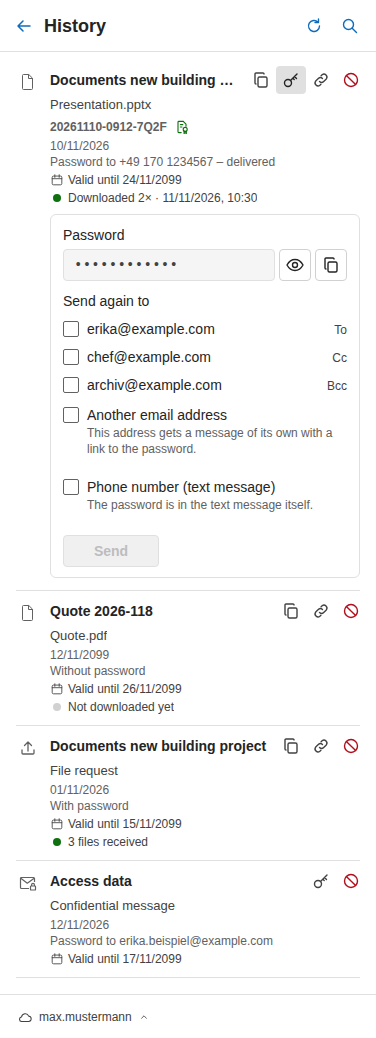
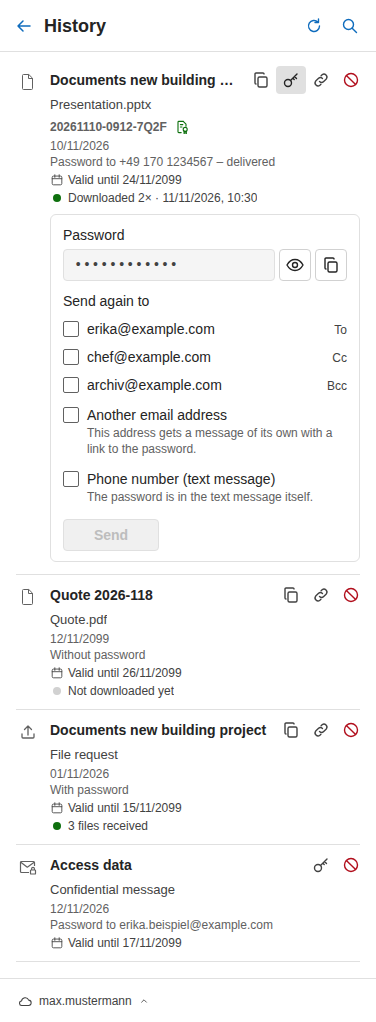
Erneut senden an: even spacing under the hint of a box (#131)
* Erneut senden an: no extra space under the hint of a box

* README picture History from CI (even spacing in Send again to)

---------

diff --git a/addin/src/taskpane/taskpane.css b/addin/src/taskpane/taskpane.css
@@ -615,6 +615,9 @@ button.share-title:focus-visible { outline: 2px solid var(--focus); outline-offs
 /* "Erneut senden an": the address or number field indented under its ticked box, like the field under the chosen
    way of "Kennwort an". */
 .password-panel .resend-picks .channel-group { margin: 2px 0 4px 24px; }
+/* The hint under a box ("Diese Adresse erhält …") ends with its row – no extra space below, so every box of
+   "Erneut senden an" is as far from the next one (the 8px under .hint is for the sentence under the heading). */
+.password-panel .checkbox-hint { margin-bottom: 0; }
 /* The recipients one line each: the address, "An"/"Cc"/"Bcc" small and grey on the right (recipientPicks). */
 .recipient-row { padding: 4px 0; }
 .recipient-row .checkbox-text { display: flex; align-items: baseline; gap: 8px; overflow-wrap: anywhere; }

diff --git a/CLAUDE.md b/CLAUDE.md
@@ -22,7 +22,7 @@ One container serves everything behind Caddy:
 - `server/` – Fastify backend (ESM, TypeScript). Validates the Office SSO token (`auth.ts`, audience `api://<host>/<client-id>`, scope `access_as_user`) and uses MSAL On-Behalf-Of only for Graph (`Mail.Send`).
 - Nextcloud does not accept Entra tokens (typically it logs in via another IdP, e.g. Keycloak through `user_oidc`). Instead each user connects once via Nextcloud Login Flow v2; the resulting app password is stored encrypted per Entra `oid` in the database (`credentials.ts`, store `credentials`, key `CREDENTIAL_KEY`) and used as Basic auth. A 401 from Nextcloud deletes the stored credential and returns error code `NEXTCLOUD_NOT_CONNECTED`, which makes the taskpane show the connect view.
 - Nextcloud access is server-to-server (no CORS on Nextcloud): WebDAV chunked upload v2 + OCS share API (`nextcloud.ts`). Nextcloud-reported URLs are rewritten onto `NEXTCLOUD_URL`. Vaultwarden Sends are created through `bw serve` running in the same container on 127.0.0.1:8087 with a service account (`vaultwarden.ts`). Upload/job/pending-login state is in-memory (`store.ts`) → single instance only.
-- `addin/` – XML manifest + taskpane (Nextcloud connect/disconnect, converts existing attachments via `getAttachmentContentAsync` → upload → `removeAttachmentAsync`, plus file picker (`window.showOpenFilePicker` first, hidden `<input type="file">` as fallback – classic Outlook's WebView did not reliably open the dialog for a file input; steps are traced with `CLIENT_TRACE`) and drag & drop onto the "Senden" tab for files beyond Outlook's limit – in classic Outlook the WebView2 file dialog sometimes opens behind the Outlook window; inserts links) + event handlers in `commands.ts`: `OnMessageAttachmentsChanged` shows an InsightMessage with a "open taskpane" action (add-ins cannot open the taskpane themselves), `OnMessageRecipientsChanged` runs the same check (the size is the total of all attachments of the mail, and it depends on the recipients: `ATTACHMENT_THRESHOLD_MB` as soon as one is outside `INTERNAL_DOMAINS` – default the user's own domain –, else `ATTACHMENT_THRESHOLD_INTERNAL_MB` and `ATTACHMENT_POLICY_INTERNAL`, also without recipients; `attachmentRule` in `shared/office.ts`, 0 = every attachment, texts without a size; in the pane every attachment is ticked whatever its size, an unticked one stays unticked on redraw; every file row has an "×" that removes the file – no "Groß" mark), `OnMessageSend` runs with manifest `SendMode="SoftBlock"`; env `ATTACHMENT_POLICY` (served via `/api/config`, cached in `roamingSettings`) decides: `enforce` blocks large attachments before arming the password mail (no "Send anyway"), `suggest` arms the password mail first and relaxes to PromptUser via `sendModeOverride` (Mailbox 1.14). The taskpane mimics Outlook (Fluent 2 tokens, Office theme, Outlook wording "Nachricht"/"Kennwort") – keep new UI consistent with that. A description (`.hint`) under an item – option, switch, field, select – sits as close as the line under "Gültigkeit" everywhere (5–6px in the rendered pane from the item's bottom – letters or edge – to the top of the description's letters), and so does the text right under a section heading ("Anhänge", "Vertrauliche Nachricht", "Dateien von Empfängern erhalten"; `.section-text`, `#no-attachments`; settings headings: `legend + .settings-text`) and the description under a checkbox (`.checkbox-hint`, settings); the margins differ by item (comment in `taskpane.css`) – check new hints against it, and remember that a hidden element is still a CSS neighbour (use `:not([hidden])`). While something loads – the start of the pane (`#start-view` in `taskpane.html`), "Verlauf", "Zustellnachweise", the links of a mail being read, settings not loaded yet – grey shimmering placeholders in the shape of the content show (`skeleton.ts`: `skeletonRows`, `skeletonForm`; role status, "Wird geladen …" for screen readers, no shimmer with reduced motion); a reload keeps the list in sight, a failure removes them. The message bar stays in sight at the top while the pane scrolls (`position: sticky`). Messages run down (`SUCCESS_MESSAGE_SECONDS`, default 5: a ring around the tick, "!" or "i" empties clockwise, paused on hover/focus, `setStatus`); progress (kind `progress`) and messages with "Erneut versuchen" stay. Bundled as IIFE because classic Outlook runs the handlers in a JavaScript-only runtime (no DOM, no ES modules); `commands.js` is built with target `es2016` and without `Headers`/`Promise.finally` (guarded by `addin/test/bundle.test.ts`); it registers its handlers immediately (classic) and again in `Office.onReady` (browser runtime: office.js loads `Office.actions` only after the script ran – `commands-load.test.ts`), and that runtime only allows SSO and fetch because the server serves `/.well-known/microsoft-officeaddins-allowed.json` listing `commands.js`.
+- `addin/` – XML manifest + taskpane (Nextcloud connect/disconnect, converts existing attachments via `getAttachmentContentAsync` → upload → `removeAttachmentAsync`, plus file picker (`window.showOpenFilePicker` first, hidden `<input type="file">` as fallback – classic Outlook's WebView did not reliably open the dialog for a file input; steps are traced with `CLIENT_TRACE`) and drag & drop onto the "Senden" tab for files beyond Outlook's limit – in classic Outlook the WebView2 file dialog sometimes opens behind the Outlook window; inserts links) + event handlers in `commands.ts`: `OnMessageAttachmentsChanged` shows an InsightMessage with a "open taskpane" action (add-ins cannot open the taskpane themselves), `OnMessageRecipientsChanged` runs the same check (the size is the total of all attachments of the mail, and it depends on the recipients: `ATTACHMENT_THRESHOLD_MB` as soon as one is outside `INTERNAL_DOMAINS` – default the user's own domain –, else `ATTACHMENT_THRESHOLD_INTERNAL_MB` and `ATTACHMENT_POLICY_INTERNAL`, also without recipients; `attachmentRule` in `shared/office.ts`, 0 = every attachment, texts without a size; in the pane every attachment is ticked whatever its size, an unticked one stays unticked on redraw; every file row has an "×" that removes the file – no "Groß" mark), `OnMessageSend` runs with manifest `SendMode="SoftBlock"`; env `ATTACHMENT_POLICY` (served via `/api/config`, cached in `roamingSettings`) decides: `enforce` blocks large attachments before arming the password mail (no "Send anyway"), `suggest` arms the password mail first and relaxes to PromptUser via `sendModeOverride` (Mailbox 1.14). The taskpane mimics Outlook (Fluent 2 tokens, Office theme, Outlook wording "Nachricht"/"Kennwort") – keep new UI consistent with that. A description (`.hint`) under an item – option, switch, field, select – sits as close as the line under "Gültigkeit" everywhere (5–6px in the rendered pane from the item's bottom – letters or edge – to the top of the description's letters), and so does the text right under a section heading ("Anhänge", "Vertrauliche Nachricht", "Dateien von Empfängern erhalten"; `.section-text`, `#no-attachments`; settings headings: `legend + .settings-text`) and the description under a checkbox (`.checkbox-hint`, settings and "Erneut senden an" – no extra space below it, every box as far from the next); the margins differ by item (comment in `taskpane.css`) – check new hints against it, and remember that a hidden element is still a CSS neighbour (use `:not([hidden])`). While something loads – the start of the pane (`#start-view` in `taskpane.html`), "Verlauf", "Zustellnachweise", the links of a mail being read, settings not loaded yet – grey shimmering placeholders in the shape of the content show (`skeleton.ts`: `skeletonRows`, `skeletonForm`; role status, "Wird geladen …" for screen readers, no shimmer with reduced motion); a reload keeps the list in sight, a failure removes them. The message bar stays in sight at the top while the pane scrolls (`position: sticky`). Messages run down (`SUCCESS_MESSAGE_SECONDS`, default 5: a ring around the tick, "!" or "i" empties clockwise, paused on hover/focus, `setStatus`); progress (kind `progress`) and messages with "Erneut versuchen" stay. Bundled as IIFE because classic Outlook runs the handlers in a JavaScript-only runtime (no DOM, no ES modules); `commands.js` is built with target `es2016` and without `Headers`/`Promise.finally` (guarded by `addin/test/bundle.test.ts`); it registers its handlers immediately (classic) and again in `Office.onReady` (browser runtime: office.js loads `Office.actions` only after the script ran – `commands-load.test.ts`), and that runtime only allows SSO and fetch because the server serves `/.well-known/microsoft-officeaddins-allowed.json` listing `commands.js`.
 - Taskpane has no tabs: the view is "Senden" (reading a mail: the links of that mail, `#panel-mail`, `currentView`); "Verlauf" (`#shares-open`, right above "Zustellnachweise" in the account menu) is a page like the settings with a search behind a magnifier (`#shares-search-toggle` → `#shares-search`, `searchToggle.ts` – the same in "Zustellnachweise" and "Hilfe") (`/api/shares`: all valid links, loaded when opened and on focus, and by "Aktualisieren" right before the magnifier – the same in "Zustellnachweise" and in the head of the links of a mail being read (`#shares-refresh`, `#proofs-refresh`, `#mail-refresh`, `onRefresh`: the symbol turns while loading, the list stays in sight); a row whose password panel is open survives a reload – `keepOpenRows` moves the open panel as it is into the new row, so the row shows its new lines while the panel neither closes nor loads again; after "Senden" the panel only gets unticked and the list loads quietly – `afterResend`; one quiet bottom bar `.account-bar` under every tab, the help and the settings (one line: the account as a menu button `#account-toggle` like Outlook's profile menu – `#account-menu` opens above it with icon entries "Nextcloud öffnen" `#nextcloud-open` (NEXTCLOUD_URL from `/api/config` in the default browser, `openBrowserWindow`), "Zustellnachweise" `#proofs-open` (only with DELIVERY_PROOF: every proof, searchable), "Einstellungen" `#settings-open`, "Feedback senden" `#feedback-open` (only with `FEEDBACK_MAIL`: a page `#panel-feedback` – problem or suggestion, text, technical details shown before they go – mailed by `POST /api/feedback` from the user's own mailbox to that address, never anything public; `feedback.ts` in add-in and server, `docs/architecture.md` 2.15), "Hilfe" `#help-toggle` and "Verbindung trennen" `#disconnect` (two clicks like "Zurückziehen": `armDisconnect`), closes on Escape or a click elsewhere; its head `.account-menu-head` shows the whole name `#account-menu-name` and the storage `#account-storage` with a bar `#storage-meter` (used share of the quota – a little blue as soon as anything is used, orange from 75 %, red from 90 %) – nothing else in the bar; fixed height `--bar-height`, the "Senden" footer sticks above it; variants are shown to the user before UI changes like this); one entry per link or confidential message: title = subject of its sent mail (`history.ts`, store `sent-mails`, Graph ID with `Prefer: IdType="ImmutableId"`; a click opens the mail via `openSentMail`: `GET /api/shares/:id/mail` translates the stored immutable ID into the current EWS ID with Graph `translateExchangeIds`, then `displayMessageFormAsync` – own mailbox only), below it plain text (file name, "Dateianforderung", "Vertrauliche Nachricht"), the kind as the symbol on the left (document, upload arrow, envelope with lock – no labels or coloured badges) (before sending: the draft's subject, sent with every link request as `subject`, `recordDraftSubject`; a subject typed later follows via `PATCH /api/jobs/:id` from the 4-second check `syncDraftSubject`; unsent without subject "(Noch kein Betreff)", older entries "(Betreff unbekannt)"), icon buttons Kopieren/Kennwort/Einfügen/Zurückziehen next to the title (messages: store `messages`, token `msg-<Send ID>`, only Kennwort and Zurückziehen – CloudShare never keeps their key) (long names shortened in the middle, extension kept – `nameParts`) (`ICONS` in `taskpane.ts`, also filled into the help via `data-icon`) and the same lines as an entry of "Zustellnachweise" – "<day> · Nachricht an <To, Cc>" – "<day> · Nachricht und Kennwort an …" with the password line hidden when the password went by mail to exactly those addresses (`sameAddresses`) –, the password line, "Gültig bis <day>" with a calendar (`.share-valid`, `fillValidLine`, orange `--warning-fg` from two days before the end; a finished proof "Aufbewahrt bis <day>"), the state alone on the last line, shortened with "…"; more than three addresses: the first two and "und N weitere", all of them in the tooltip and the search – `addressList` (password line: "Kennwort an <address>" / "Kennwort an <number> – <SMS state>" (the whole number; masked only in logs and on the recipient's code page), the time of the delivery in its tooltip; sent again from "Verlauf" (`Delivery.resent`) "Kennwort zuletzt an <address> · <date>, <time> Uhr", always its own line; the same line in "Zustellnachweise"; dates always dd.mm.yyyy, times "HH:MM Uhr"; a delivery proof shows its tracking ID right under the file name (bold, `.proof-case`) with a small seal `.proof-seal` after it that opens its PDF – the same as in "Zustellnachweise"); revoke via `DELETE /api/shares/:id`, `revokeShare` in `shares.ts`; links are created on insert, so links whose job has not been dispatched are marked `unsent` – a job that expires without ever being armed (draft discarded, `armedOnce: false`) gets its links revoked by the watcher via `onUnsentExpired`/`revokeUnsentLinks`); "Hilfe" in the account menu (`#help-toggle`, `showHelp`) shows the guide in place of the current tab, searchable via the magnifier in its head (`helpSearch.ts`: sections without a hit hidden, hits marked) – a user guide for everyday users, `<details>` sections with texts `help.*` in the language files (keep it in plain words and in step with the UI when features change). "Senden" starts with a switch (`kind` radios, `selectKind`/`renderKind` in `taskpane.ts`) between "Dateien" (attachments + drop zone), "Nachricht" ("Vertrauliche Nachricht" via `/api/messages` = a Vaultwarden text Send protected with the step password, never stored in Nextcloud) and "Anfordern" (upload link via `/api/requests`); only the chosen part is shown and the single footer button `#submit` names what it inserts (`renderSubmit`). Below: password (radio buttons; only "Eigenes Kennwort" shows a field – with rules – indented under it, a random password is never shown; the hint under the chosen option – `setPasswordMode`) with "Kennwort an" (own heading like "Kennwort", radio buttons `#password-channel`, address or number field indented under the chosen one, `#password-to-field`) right below it – no heading "Empfänger" any more –, then for files the switch "Zustellnachweis" as a row of its own (`#proof`, `role="switch"`, `.proof-row`), label and control in one row (`.inline-row`); and "Gültigkeit" collapsed behind a one-line summary of the times (`renderValidity`). "Ohne Kennwort" is only offered for "Dateien" – prevent invalid choices in the UI rather than reporting them after the click, and say why: an option that does not exist for the chosen kind stays greyed out with the reason as a hint right below it – no "i" (`showUnavailable`, `#mode-none-unavailable`); "Zustellnachweis" is not shown at all for "Nachricht"/"Anfordern". Read mode: the manifest also has a pinnable `MessageReadCommandSurface` button (plus legacy `ItemRead` form) opening `taskpane.html?view=read` (`readMode`, `startReadView`) – tabs "Nachricht" (`#tab-mail`/`#panel-mail`: the shares whose token (`/s/<token>`) appears in the read mail's body, `mailTokens`; selected again on `ItemChanged`, in place of "Senden") and "Verlauf" (all valid links, as when writing); no server-side mail↔share mapping, no new permissions. A manifest change needs a new `<Version>`. Links are inserted (the first at the cursor, every further one right after the last CloudShare card wherever the cursor is – `cardPlace.ts`, `insertAfterLastCard`, body written back with `body.setAsync`) as an email-safe HTML card (`addin/src/taskpane/mailCard.ts`, tables + inline styles, one layout for files, message and upload link: title, a short sentence, the button on the left, details in grey below – per file a block –, buttons as filled table cells for classic Outlook, no signature – the sender's signature goes into the password mail, see below).
 - Personal settings ("Einstellungen" `#settings-open` in the account menu of the bottom bar, `#panel-settings` shown in place of the view like the help – `showOverlay`; history, settings, proofs and help are pages of their own in place of the view, "←" before the title or Escape leads back; a page opens at its top, back to the view (or from the address book to its page) the pane stands where it was left – `scrolledTo` in `showOverlay`; every change saved at once, no save button – notices and signature in sight, ways, languages and "Zurücksetzen" under "Weitere Einstellungen" `#settings-more`): add-in `settings.ts` (form, `loadSettings`, `userSettings`), server `settings.ts` (store `settings`, `retention: false`, only changed fields; `settingsFor` = `config.userDefaults` from `DEFAULT_*` + stored + `availableSettings`), `/api/settings` GET/PUT/DELETE. Covers the offered password ways and the preselected one (`applyChannelChoices`, keeps the way a mail already uses), the notices (checked in `attachNoticeJob`, `runNotices`, `noteUndeliveredSms`; only where the server switch is on), the add-in language (`auto` or a code, also in `roamingSettings` `cloudshare-settings` → `preferredLanguage` in `i18n.ts`; reload once when it differs) and the signature of the mails to the recipients (password mail, code mail; `server/src/signature.ts`, `signatureHtml`: own text or else `MAIL_FOOTER`, plain text only – deliberately no formatted/HTML signature; empty line = paragraph (`signatureParagraphs`), profile placeholders via `fillTemplate`, escaped, each paragraph a `<p>` in `TEXT_STYLE` like "Guten Tag"; fixed in `PasswordJob.signature` when arming, built anew for "send again"). The link card carries no signature; every mail CloudShare sends to recipients (password mail, the code mail of the delivery proof) ends with the sender's signature (`PasswordRef.signature` is stored for every step). SMS rules and server switches are never user settings. Keep the help section `help.settings.*` in step.
 - Per-draft state lives in `item.sessionData` (`DraftState` in `shared/office.ts`: `jobId`, `password`, `noPassword`, `maxAccess`, `passwordTo` = other password recipient (job field, only that address gets the password mail), `separate` = password and password mail in steps (`step` ID per click, `PasswordJob.separate`) – one step per mail: `lastStep` = ID and password of the step with the password – after it "Gleiches Kennwort wie zuvor" (`#mode-same`) is selected, "Zufällig"/"Eigenes"/"Ohne Kennwort" greyed out and, under "Kennwort an", "Gleiche Empfänger wie zuvor" selected with its hint, the three ways greyed out – the password keeps the way of the first link (`lockSeparate`, `lockChannel`, `lockedWay`; server `assertOnePassword`, 409 `ONE_PASSWORD`) and every further click reuses that step (`stepForClick`, joins the part on the server: one password, one password mail/SMS for files, message and upload link), `links` = share tokens of inserted links; if none of them is left in the body, `releaseDraftIfLinksGone` drops job/password/tag – taskpane on focus and every 4 s while locked, send handler before arming; drafts without `links` are never released). All files of one mail share one password, one Vaultwarden Send and one password mail (or, with "Ohne Kennwort" – file links only, `noPassword: true` on `/complete` – no password, no Send; with `DOWNLOAD_NOTICE` a job without password (`PasswordJob.noPassword`, `noticeShares`) only waits for the sent mail to register the download confirmation; `DraftState.noPassword` + `jobId`). With "per SMS" the pane hides "Kennwort abrufbar"/"Kennwort-Link gültig für" and SMS steps get Sends with `SEND_MAX_EXPIRE_DAYS`; the backend appends to an existing job via `jobId` on `/complete` unless it was already dispatched. The password mail is sent only after the mail was really sent: the taskpane tags the draft with the Office.js custom property `cloudshareJob` (MAPI `cecp-<add-in ID>`, `ADDIN_ID` env must match the manifest `<Id>`), the send handler only arms the job (`/api/jobs/:id/arm`, stores a Graph token with Mail.Read(.Shared) + Mail.Send(.Shared); the handler passes a "From" that differs from the user so shared-mailbox "Sent Items" are searched too and the password mail uses the same sender), and `server/src/jobs.ts` polls "Sent Items" and then mails the actual recipients. Password channel per insertion (while typing another address or SMS number the pane suggests the user's own Outlook contacts – `contactSuggest.ts`, `GET /api/contacts`; the address book button next to the field opens them A to Z on the page "Adressbuch" `#panel-contacts`, `addressBook.ts`, `?all=1`, back to the page it was opened from; "Erneut senden an" in "Verlauf" has both too (one box per way – several at once, one request each –, the recipients of the message one line each with An/Cc/Bcc on the right, the ticked ones in one mail like the first time (each in its field, a Bcc stays hidden; with a proof: a mail each) – from four on folded into one box "Empfänger der Nachricht (n)" (half ticked when some are, "3 von 53 ausgewählt" below) whose arrow folds out the list with a filter, the same for the confirmed ones of a proof – `recipientPicks`, `RECIPIENT_GROUP_FROM`, nothing ticked at first (the field of another address/SMS filled with the one of the first time), the field indented under its ticked box, `checkboxRow`; the password itself hidden until the eye is clicked, `.reveal-password`), one address like "Kennwort an" – the server refuses a list –, optional delegated `Contacts.Read`, kept in memory only; each link request carries `passwordTo`/`passwordSms`, `deliveryFrom`; a step collects the ways of its links in `SeparatePart.deliveries` and sends each once – `partDeliveries`, `sentWays`; older steps fall back to the job's one way set by `PATCH`/`/arm`): recipients, `passwordTo` or `passwordSms` (seven.io, `sms.ts`, after sending, password read from the Send, webhook `/webhooks/seven`, status in `deliveries.ts`; `SMS_ALLOWED_COUNTRIES` limits the countries by calling code (`countries.ts` reads ISO codes, calling codes, German/English names and groups), `SMS_ALLOWED_NUMBERS`/`SMS_BLOCKED_NUMBERS` are regular expressions on the E.164 number (default blocks 0800/0900/0180; landlines allowed) – `smsNumberProblem` in `sms.ts` and `taskpane.ts`, the pane refuses such numbers while they are entered, the server on `PATCH`/resend and before every SMS; a failed SMS never falls back to another channel – the sender gets a note without password, `smsProblemMailHtml`; a refused SMS right away with the armed token, one reported later as not delivered only with `SMS_NOTICE` (app token; unset it follows `DOWNLOAD_NOTICE`, `envFlag` in `config.ts`)). Sends have two dates: recipients' access ("Kennwort-Link gültig für") and deletion = link expiry, so links with password last at most 30 days (Vaultwarden limit, `passwordLinkMaxDays`); `passwordRefs.ts` stores only the Send ID per sent step so the owner can see and resend the password ("Kennwort" in "Verlauf", `/api/shares/:id/password[/send]`) until the links expire – CloudShare never stores passwords itself; optional `templates.json` (`templates.ts`, user → department → default) and download confirmation (`notices.ts`, app permission `Mail.Send`, `DOWNLOAD_NOTICE`) and upload notification (same module, `UPLOAD_NOTICE`: upload links are `StepShare.request` with `knownFiles`, registered as `kind: "upload"`, each pass mails the new files of the folder until the link expires); every mail CloudShare sends itself (password mail, download confirmation, SMS notes) uses `mailLayout.ts` – text, one card with an accent per kind (blue password, green downloaded, red problem), the line `mail.automatic`; keep new mails in that layout. All persistent state (jobs, password entries, deliveries, notices, the cleanup list of uploaded files – `cleanup.ts`, `CLEANUP_AFTER_DAYS`, deletes upload folders after link expiry – each folder on its own, retried hourly while the user is not connected or Nextcloud refuses, given up after 90 days – and the Nextcloud connections) lives in one SQLite database `/data/cloudshare.db` (`db.ts`, Node 24 built-in `node:sqlite`): one table `entries (store, key, data)`, every row sealed AES-GCM with `CREDENTIAL_KEY` (`storage.ts`); each module keeps a `PersistentMap` in memory – `set`/`delete` write their row, an entry changed in place needs `map.save(key)`; a daily pass deletes rows not written for `DATA_RETENTION_DAYS` (default 365, `startRetention`), except maps created with `retention: false` (connections, cleanup list, settings, proofs – those go after `PROOF_RETENTION_MONTHS` in `startProofRetention`, daily, whatever `DELIVERY_PROOF` says –, signing identity). No upload size cap except the user's Nextcloud quota (checked up front via OCS `cloud/user`, 507 → `NEXTCLOUD_QUOTA_EXCEEDED`).
